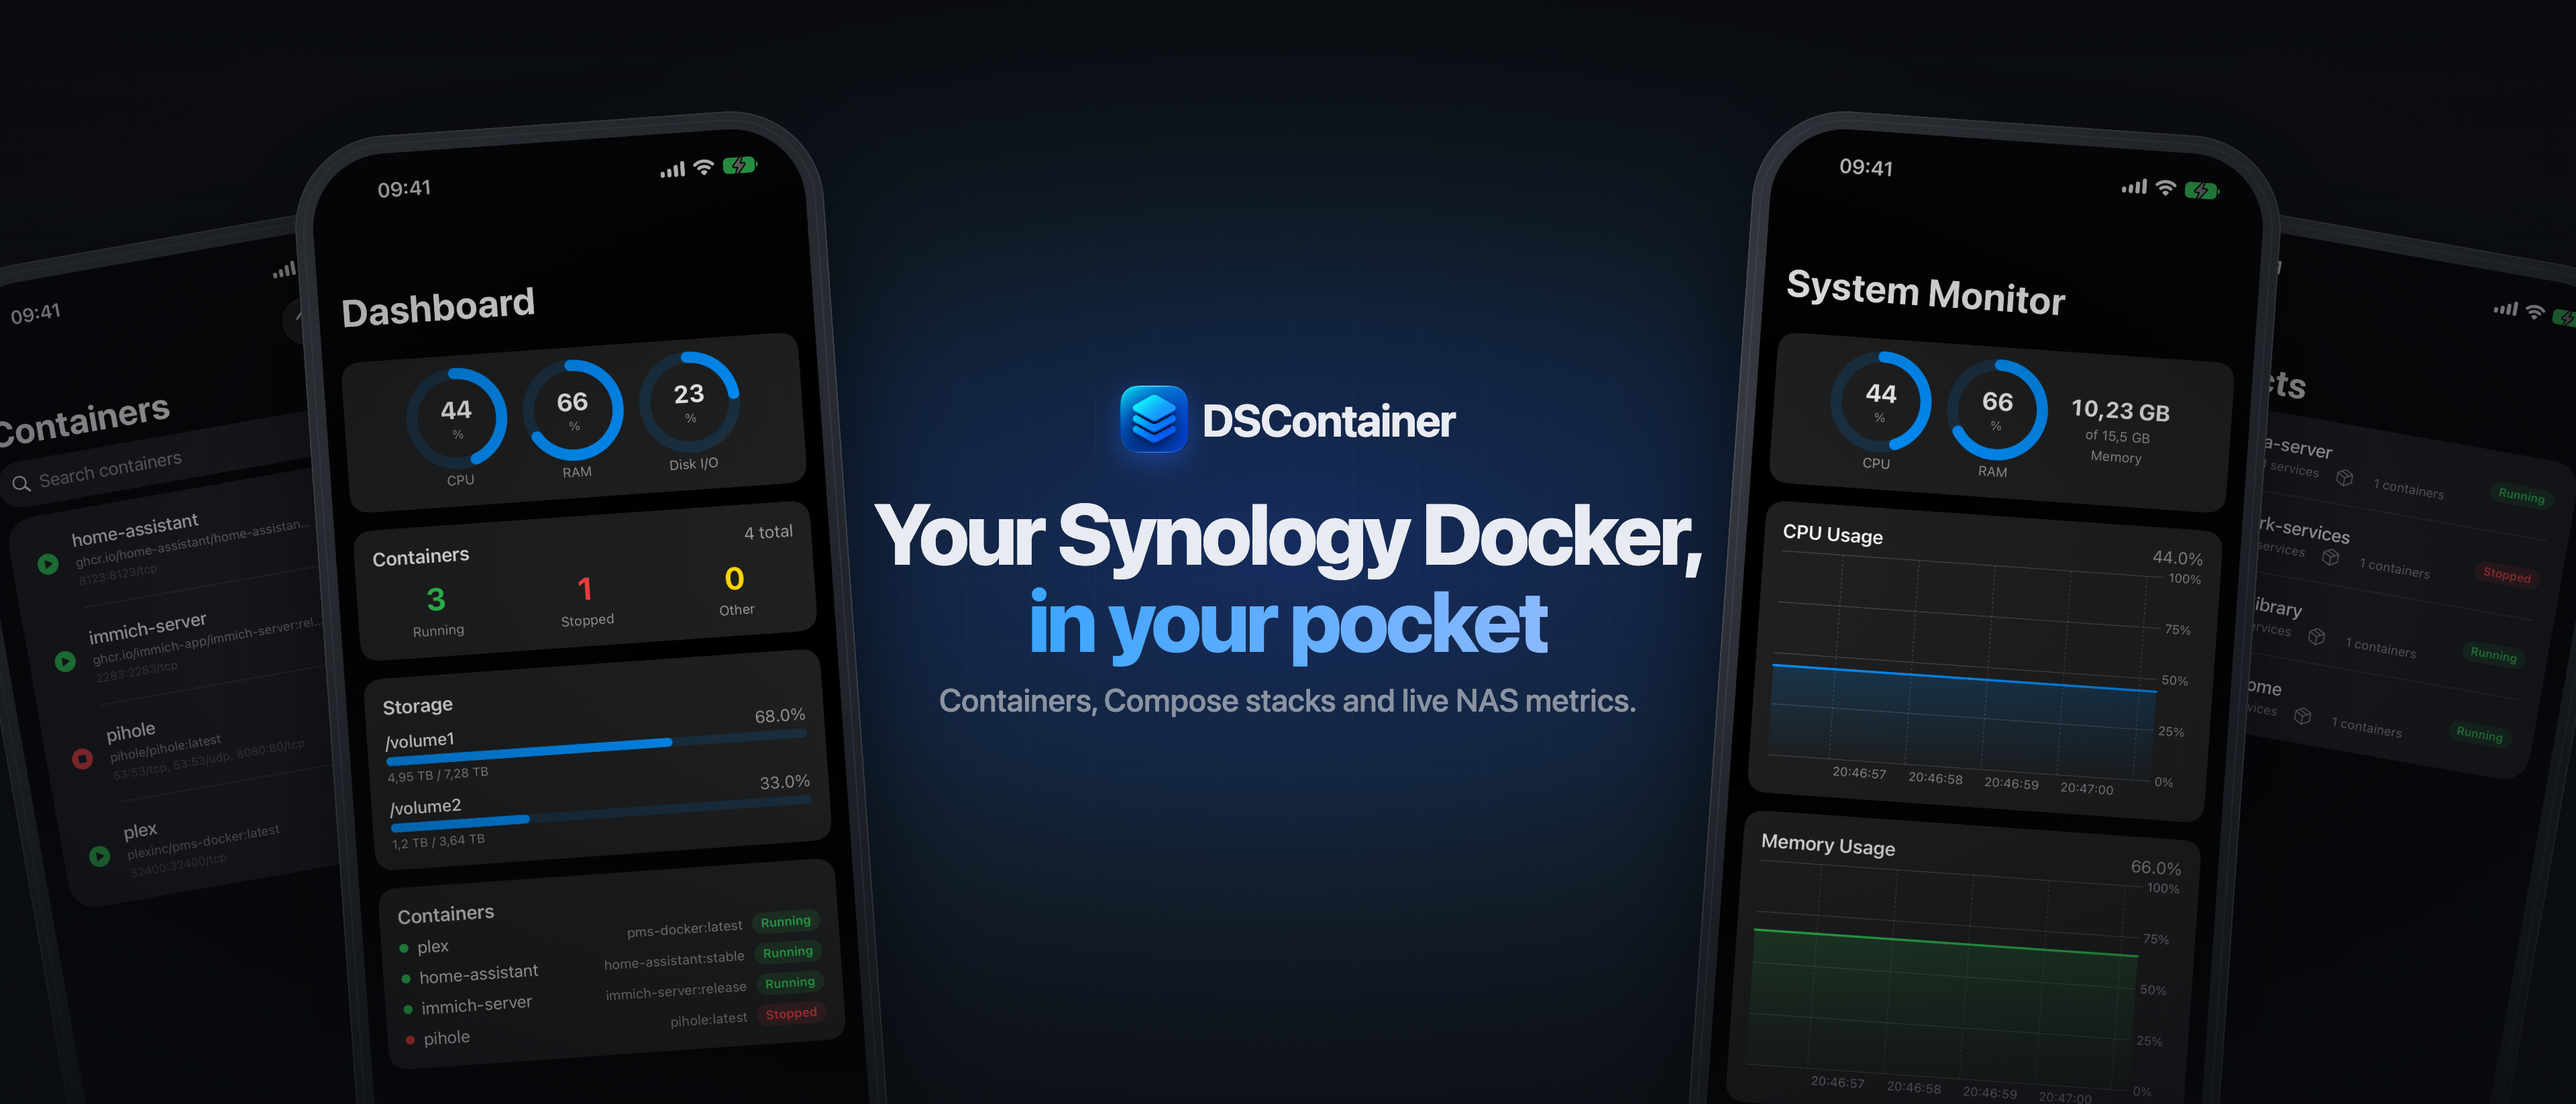
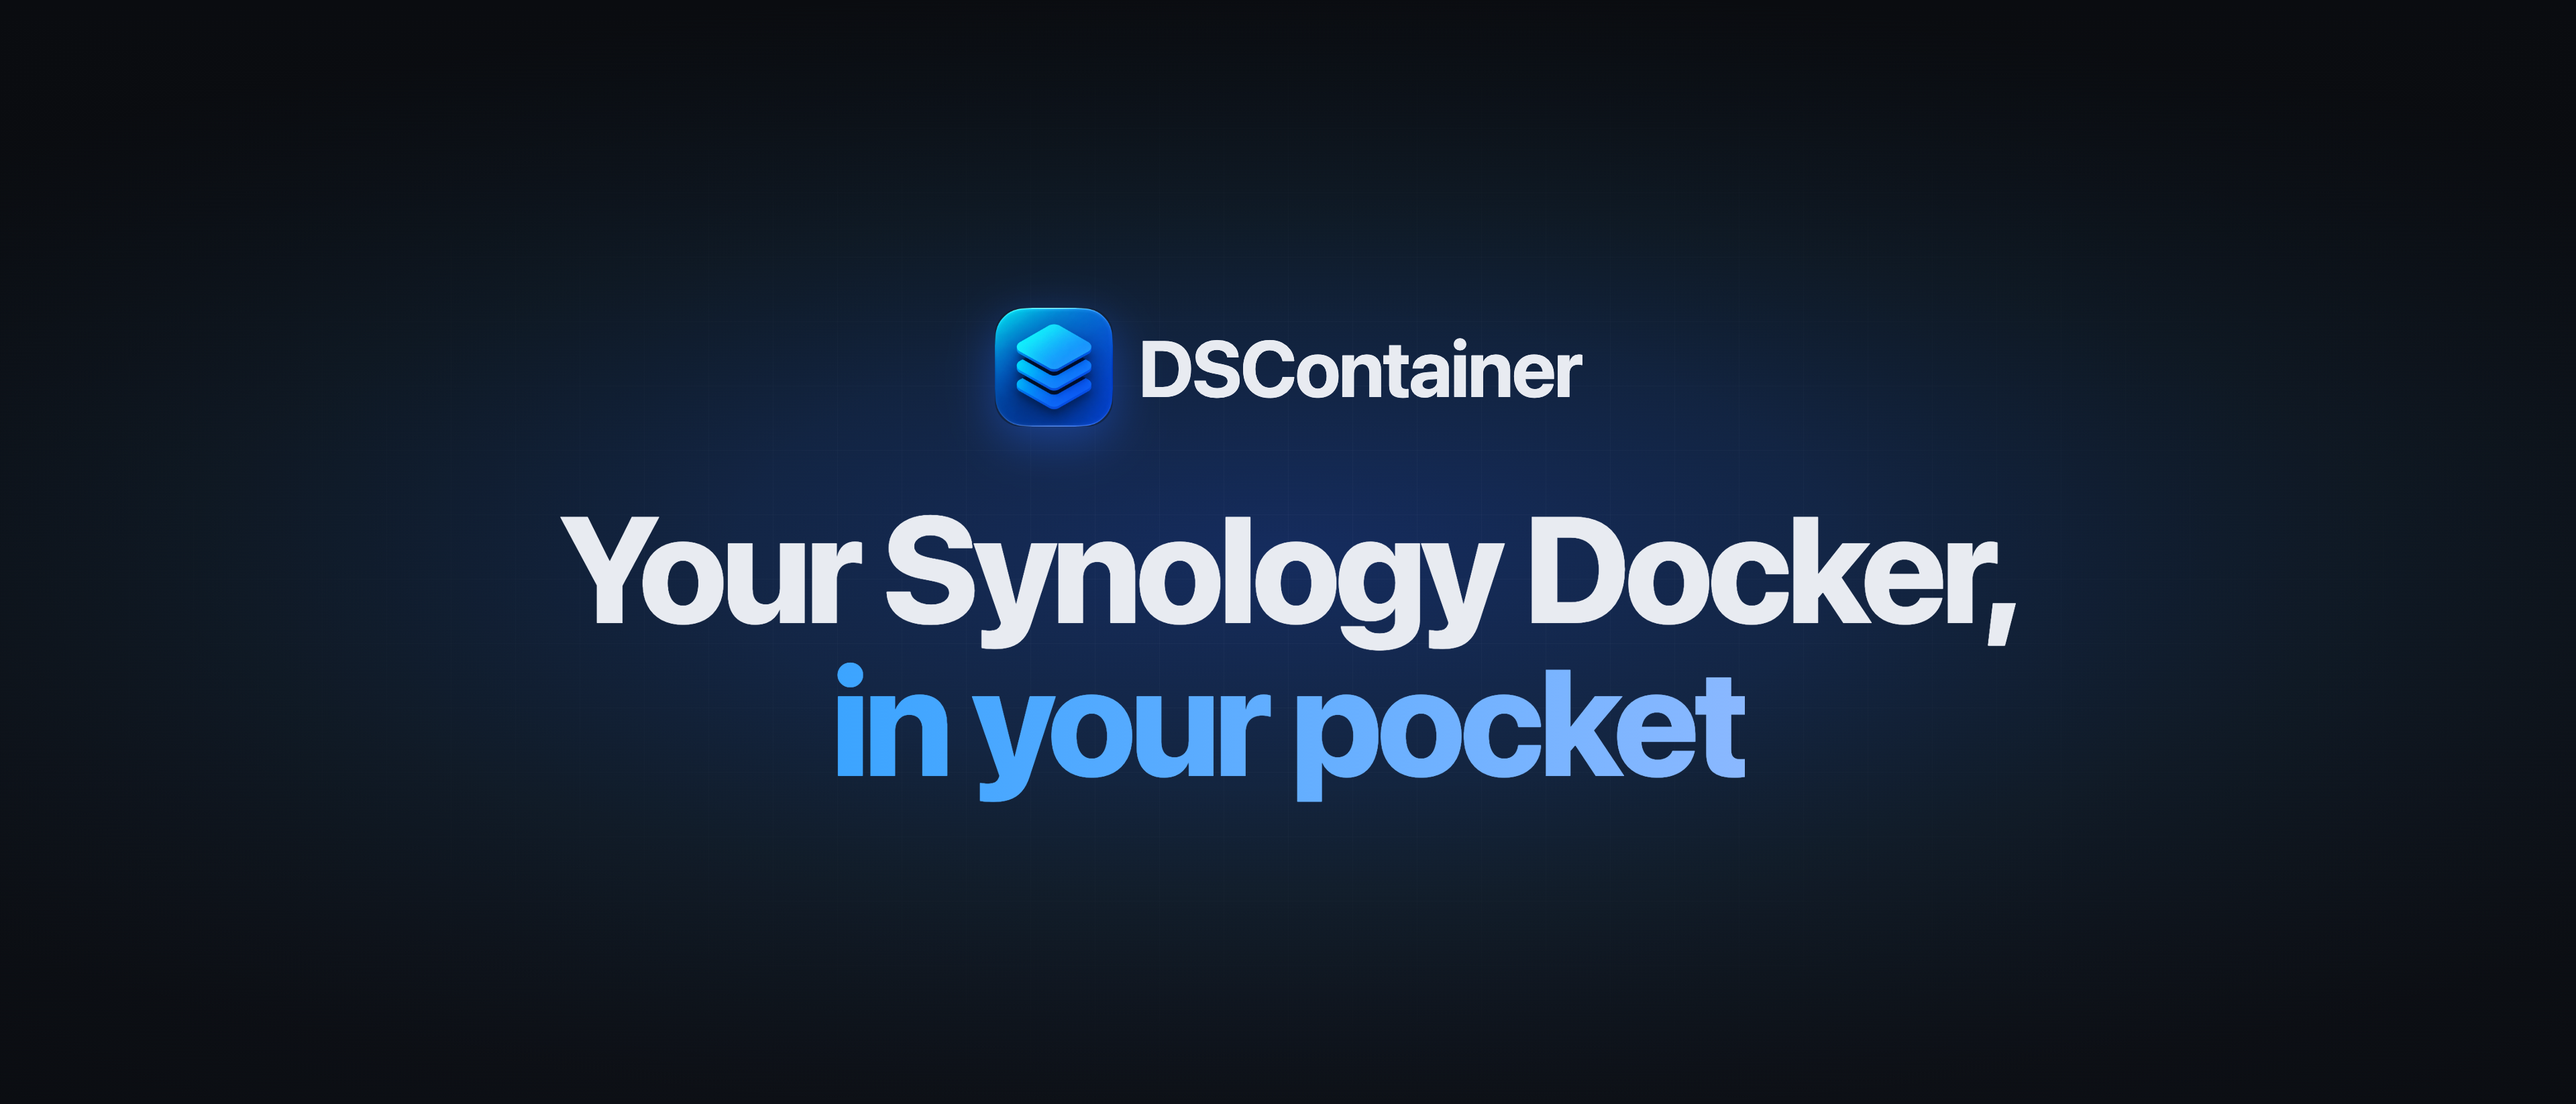
Simplify product page header to a single large line
Drop the phones and subtitle: on iPhone the header is small and its top
corners sit under the Back and Share buttons.

diff --git a/marketing/appstore/creative.html b/marketing/appstore/creative.html
@@ -162,7 +162,8 @@
       title.innerHTML = data.title;
       title.style.fontSize = "1.18em";
       const sub = document.getElementById("sub");
-      sub.textContent = data.sub;
+      sub.textContent = data.sub ?? "";
+      sub.style.display = data.sub ? "block" : "none";
       sub.style.fontSize = "0.44em";
 
       const phones = document.getElementById("phones");

diff --git a/marketing/appstore/metadata.md b/marketing/appstore/metadata.md
@@ -133,7 +133,9 @@ App Store "Creative Assets" (live in App Store Connect since 2026-10-05): a
 results. Rendered by `npm --prefix marketing/appstore run render:creative`
 (`creative.html` + `render-creative.mjs`) into `screenshots/appstore/creative/`:
 
-- `header-3840x1646.png` — copy inside Apple's centered 1646×661 safe area.
+- `header-3840x1646.png` — icon, name and one large line, no phones. The
+  iPhone page shows ~70% of the width and puts Back/Share over the top corners,
+  so the copy is wider than Apple's 1646×661 template but stays in its height band.
 - `search-3840x2560.png` — copy inside the centered 2168×1030 safe area.
 
 Upload as **PNG**: App Store Connect rejected the `.jpg` with "invalid file
